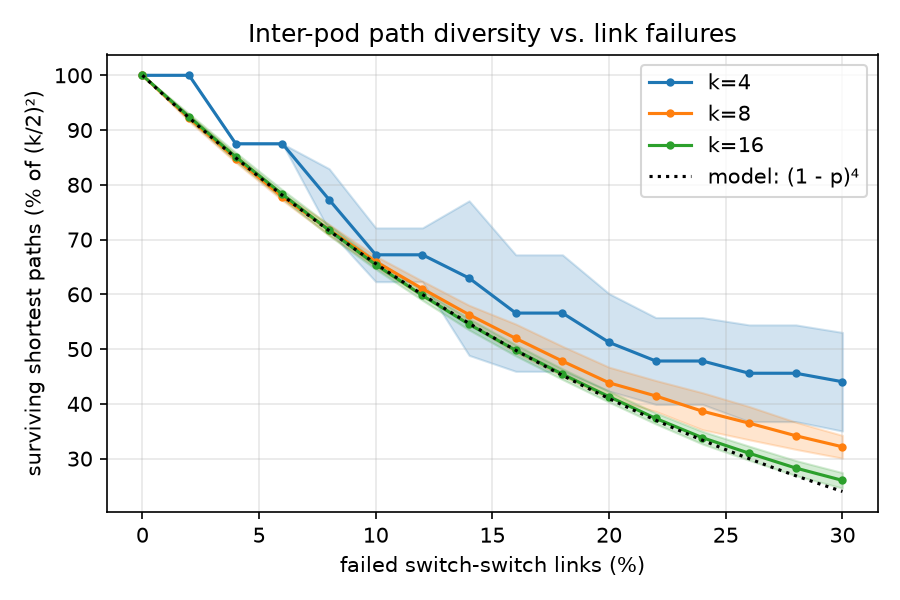
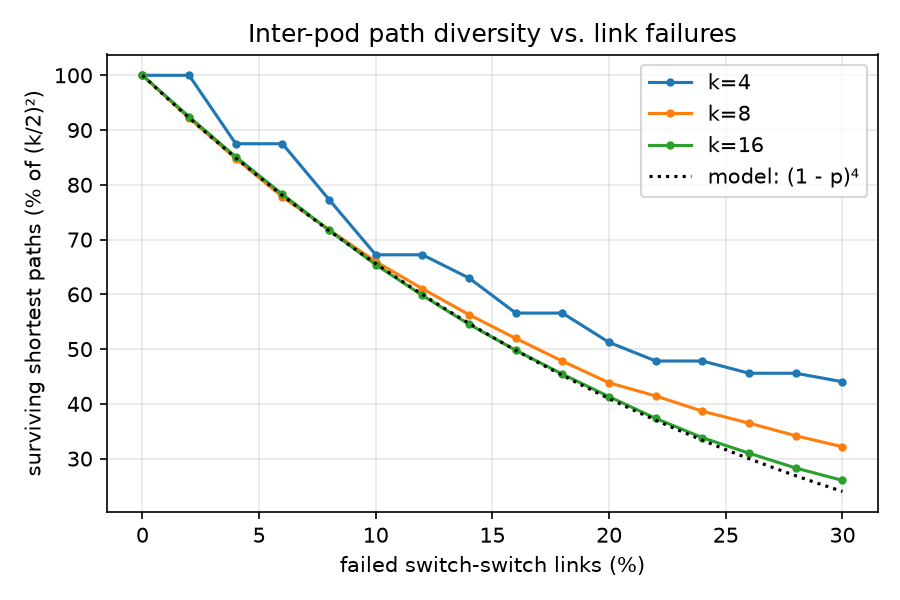
Remove shaded std band from failure experiment plots for cleaner presentation

Changed region(s): [[0.2489, 0.24, 0.9644, 0.81], [0.2178, 0.21, 0.2489, 0.24], [0.1867, 0.18, 0.2178, 0.21]]

diff --git a/courses/data-centers-and-ai-networks/ex1/fattree.py b/courses/data-centers-and-ai-networks/ex1/fattree.py
@@ -387,8 +387,6 @@ def plot_failures(rows, ks, rates, figures_dir):
         for k in ks:
             means, stds = series(k, key, scale)
             ax.plot(rates, means, "o-", ms=3, color=colors[k], label=f"k={k}")
-            ax.fill_between(rates, [m - s for m, s in zip(means, stds)],
-                            [min(m + s, cap) for m, s in zip(means, stds)], color=colors[k], alpha=0.2)
             if model is not None and not shared_model:
                 ax.plot(dense, [model(k, p) * scale for p in dense], ":", color=colors[k])
         if model is not None and shared_model:
